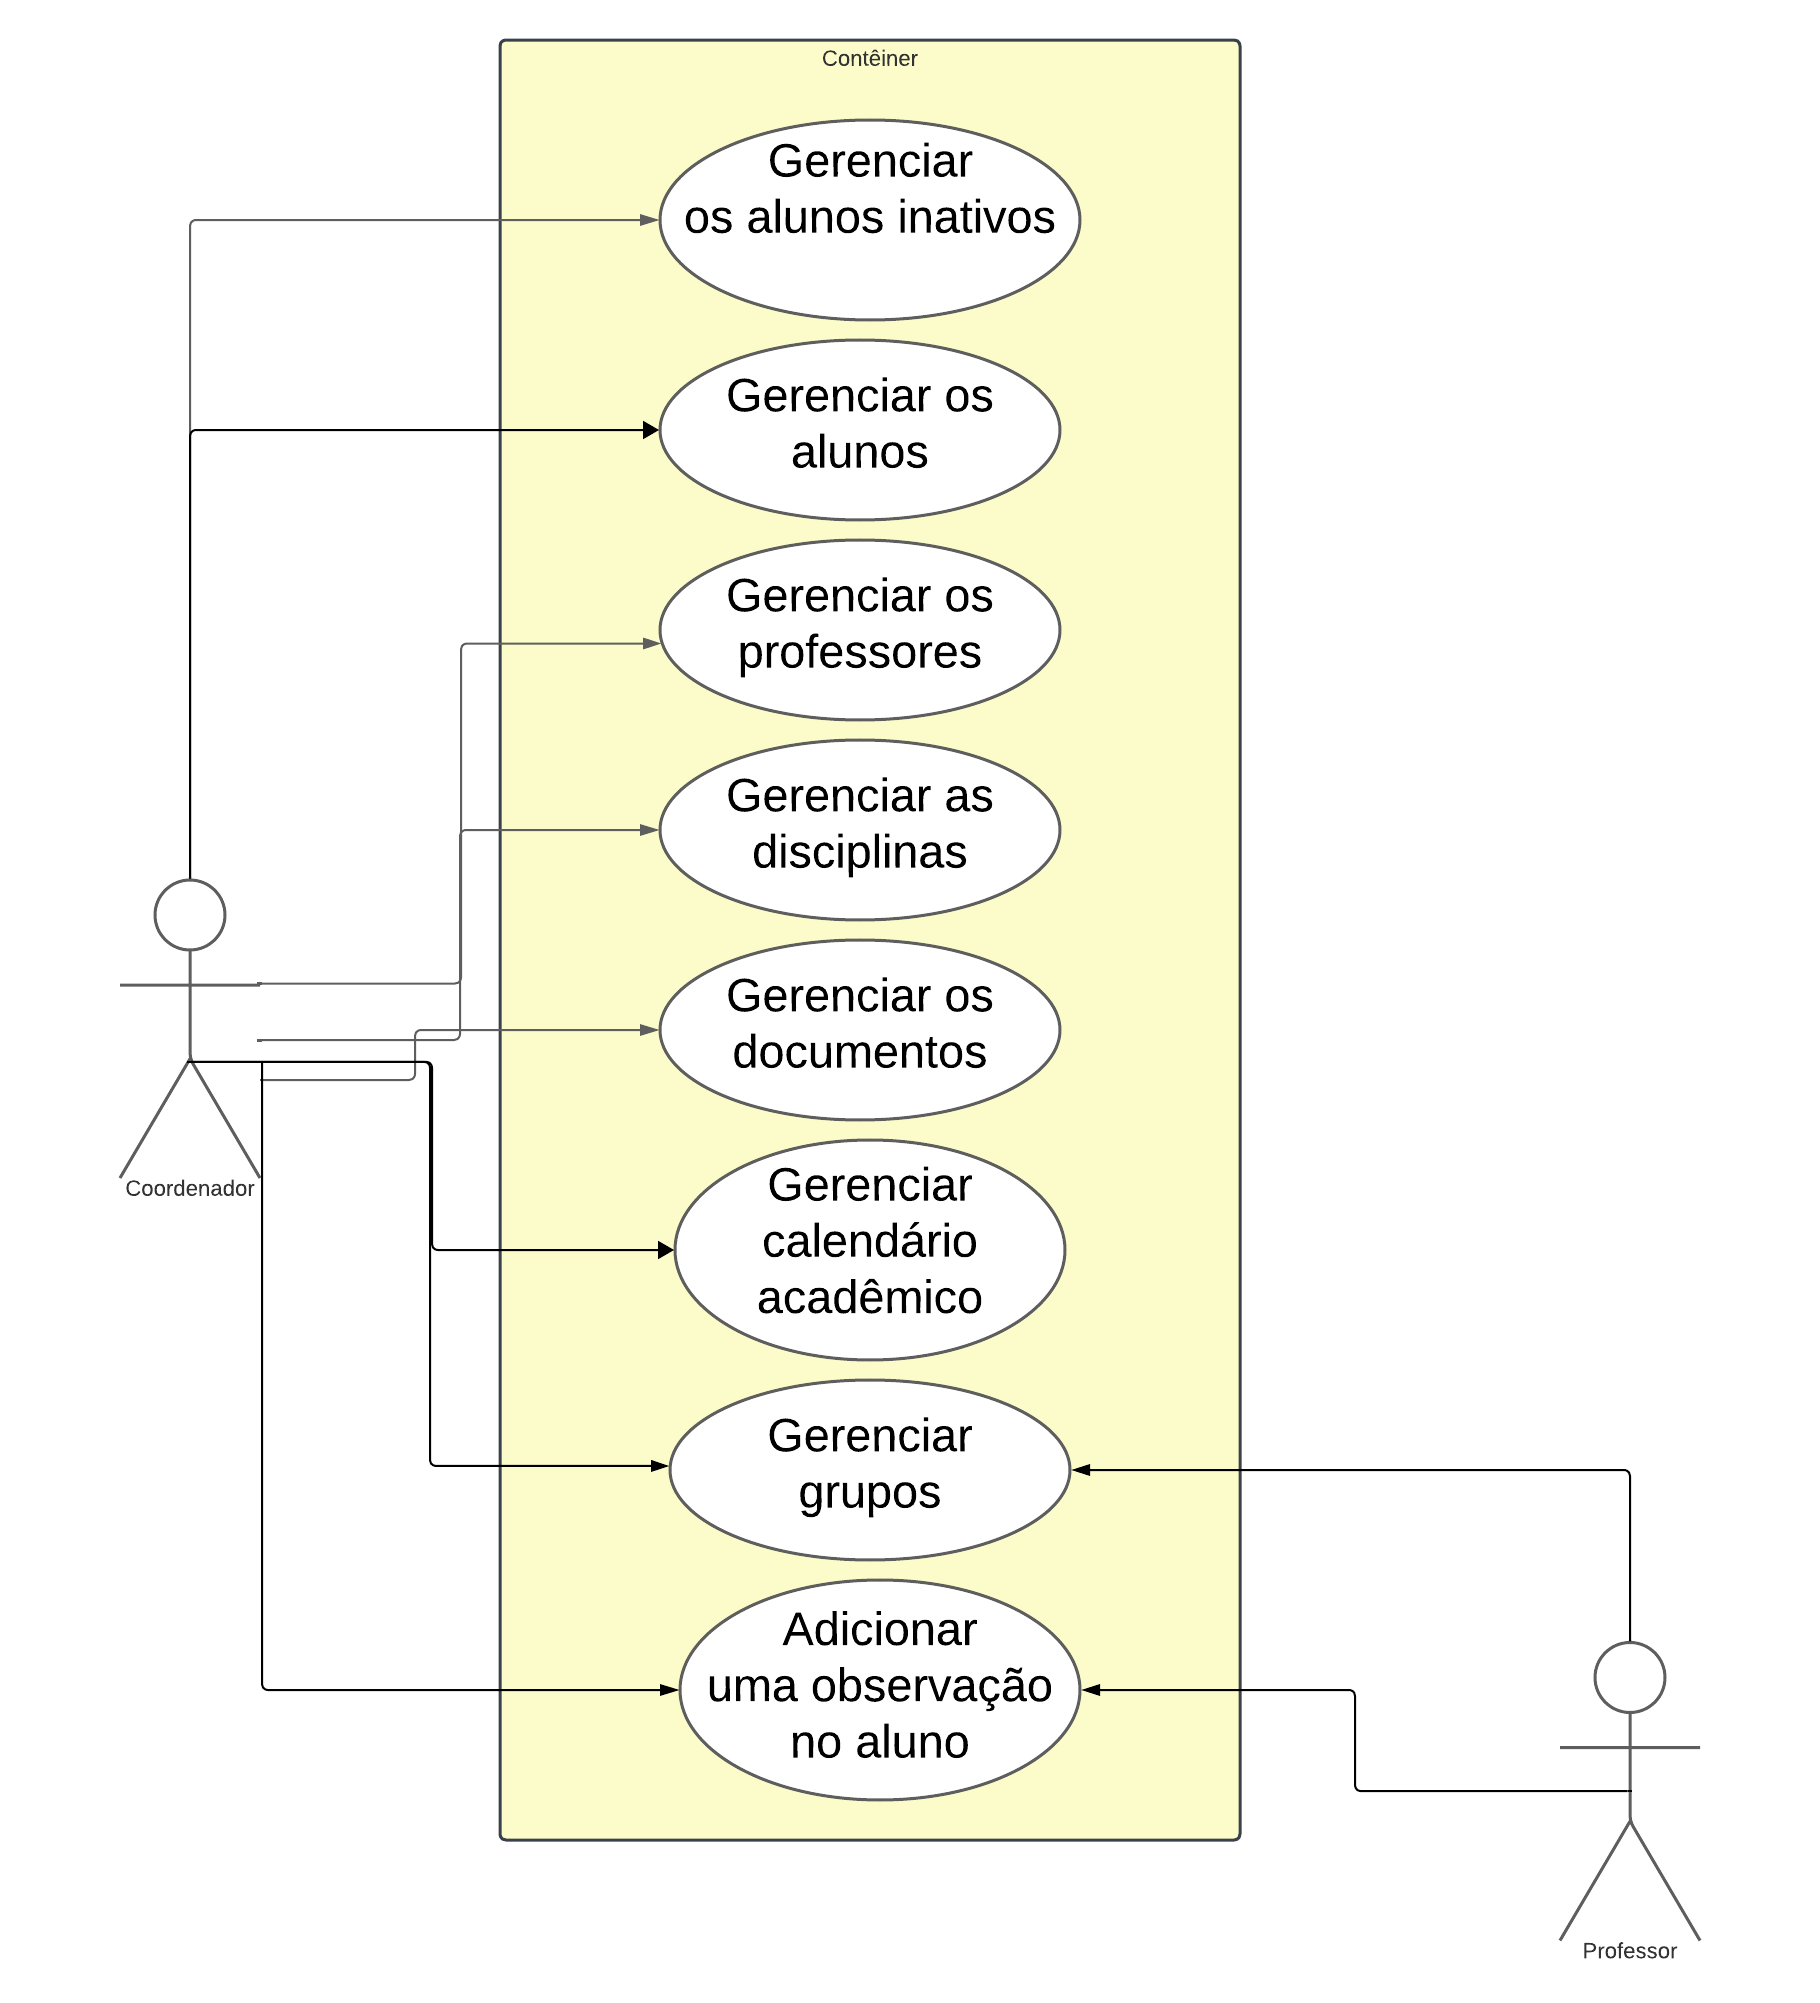
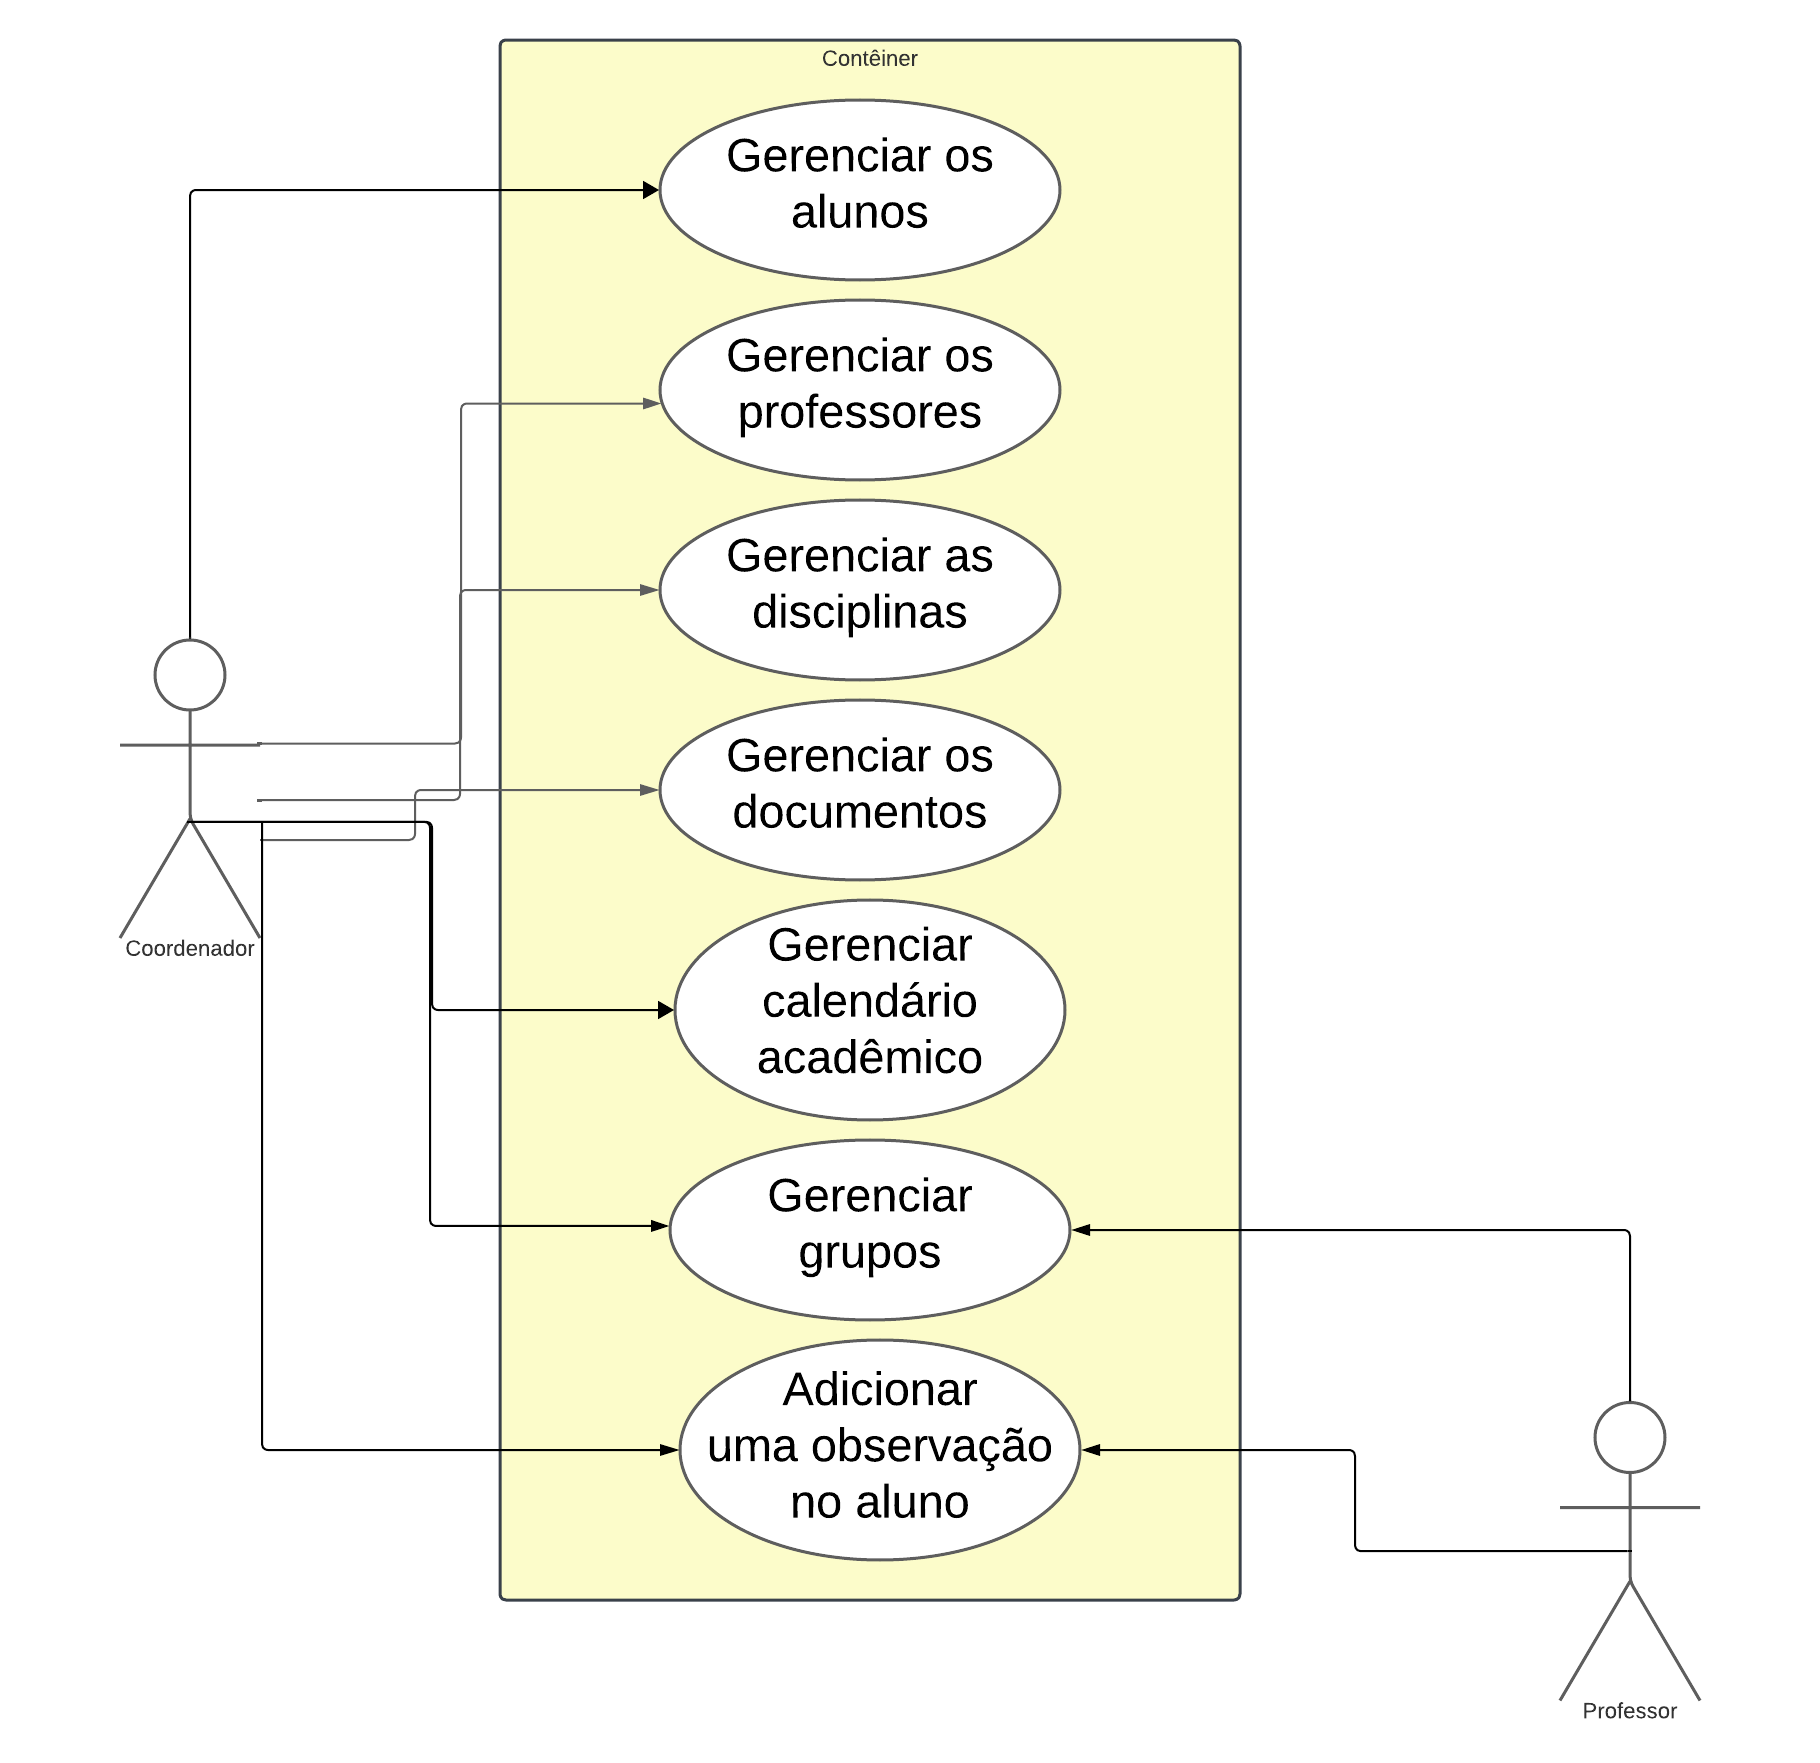
readme

diff --git a/README.md b/README.md
@@ -5,7 +5,7 @@
 <p align="center">
     Trabalho de Conclusão do Curso de Bacharelado em Ciência da Computação.<br>
     Gabriela Marangoni Radigonda<br>
-    Orientador: Prof. Rafael Liberato<br>
+    Orientador: Prof. Dr. Rafael Liberato Roberto<br>
     <i>Fevereiro de 2025</i> 
 </p>
 <br>
